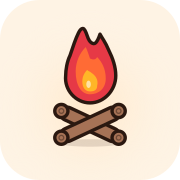
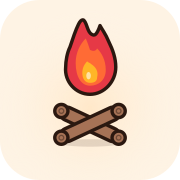
Fix dark merger: pull flame to y=1 for 3-unit gap above logs
At y=4 the gap was only 0.2 SVG units; at 120px render the 1.2px flame
stroke + 1.3px log stroke overlapped visually creating a black blob at
the flame base. y=1 gives a 3.2-unit gap (~7px clearance at 120px) so
the dark strokes never merge regardless of render size.

Propagated across icon-source.svg + 7 inline SVGs (index nav, design-
system nav + 3 showcase, privacy nav, terms nav). PNGs regenerated.

Changed region(s): [[0.3333, 0.0833, 0.6667, 0.5833]]

diff --git a/site/design-system.html b/site/design-system.html
@@ -182,7 +182,7 @@
           <g transform="rotate(25)"><rect x="-12" y="-2.5" width="24" height="5" rx="2.5" fill="#a67256" stroke="#2b1810" stroke-width="1.3" stroke-linejoin="round"/><circle cx="-12" cy="0" r="2.5" fill="#a67256" stroke="#2b1810" stroke-width="1.3"/><circle cx="12" cy="0" r="2.5" fill="#a67256" stroke="#2b1810" stroke-width="1.3"/></g>
           <g transform="rotate(-25)"><rect x="-12" y="-2.5" width="24" height="5" rx="2.5" fill="#a67256" stroke="#2b1810" stroke-width="1.3" stroke-linejoin="round"/><circle cx="-12" cy="0" r="2.5" fill="#a67256" stroke="#2b1810" stroke-width="1.3"/><circle cx="12" cy="0" r="2.5" fill="#a67256" stroke="#2b1810" stroke-width="1.3"/></g>
         </g>
-        <svg x="12" y="4" width="32" height="32" viewBox="0 0 32 32">
+        <svg x="12" y="1" width="32" height="32" viewBox="0 0 32 32">
           <path d="M12 4 C 11 6, 10 9, 9 12 C 8 14, 7.5 17, 7.5 19 C 7 24, 11 28.5, 16 28.5 C 21 28.5, 25 24, 25 19 C 25 16, 24 13, 22.5 10 C 21.5 7.5, 20 5.5, 19.5 4.5 C 19 6, 18.5 7, 18 7.5 C 17.5 8, 17 7.8, 16.5 7.5 C 16 7.2, 15.5 6.5, 15 5 C 14.5 3.5, 14 2.5, 13.5 2.5 C 13 2.5, 12.5 3, 12 4 Z" fill="#e63946" stroke="#2b1810" stroke-width="1.2" stroke-linejoin="round"/>
           <path d="M14.5 9 C 12.5 11, 11 14, 11 17.5 C 11 22.5, 13 25.5, 16 25.5 C 19 25.5, 21.5 23.5, 21.5 20 C 21.5 16.5, 20 14, 18.5 12.5 C 18 13.5, 17 13.5, 16 13 C 15.5 11.5, 15 10, 14.5 9 Z" fill="#ff6b35"/>
           <path d="M15 17 C 13.5 18.5, 13 20.5, 13.5 22.5 C 14 24, 15 24.5, 16 24.5 C 17.5 24.5, 18.5 24, 18.5 22.5 C 19 20.5, 18 19, 16.5 18 C 16 17.5, 15.5 17.5, 15 17 Z" fill="#ffb627"/>
@@ -208,7 +208,7 @@
           <g transform="rotate(25)"><rect x="-12" y="-2.5" width="24" height="5" rx="2.5" fill="#a67256" stroke="#2b1810" stroke-width="1.3" stroke-linejoin="round"/><circle cx="-12" cy="0" r="2.5" fill="#a67256" stroke="#2b1810" stroke-width="1.3"/><circle cx="12" cy="0" r="2.5" fill="#a67256" stroke="#2b1810" stroke-width="1.3"/></g>
           <g transform="rotate(-25)"><rect x="-12" y="-2.5" width="24" height="5" rx="2.5" fill="#a67256" stroke="#2b1810" stroke-width="1.3" stroke-linejoin="round"/><circle cx="-12" cy="0" r="2.5" fill="#a67256" stroke="#2b1810" stroke-width="1.3"/><circle cx="12" cy="0" r="2.5" fill="#a67256" stroke="#2b1810" stroke-width="1.3"/></g>
         </g>
-        <svg x="12" y="4" width="32" height="32" viewBox="0 0 32 32">
+        <svg x="12" y="1" width="32" height="32" viewBox="0 0 32 32">
           <path d="M12 4 C 11 6, 10 9, 9 12 C 8 14, 7.5 17, 7.5 19 C 7 24, 11 28.5, 16 28.5 C 21 28.5, 25 24, 25 19 C 25 16, 24 13, 22.5 10 C 21.5 7.5, 20 5.5, 19.5 4.5 C 19 6, 18.5 7, 18 7.5 C 17.5 8, 17 7.8, 16.5 7.5 C 16 7.2, 15.5 6.5, 15 5 C 14.5 3.5, 14 2.5, 13.5 2.5 C 13 2.5, 12.5 3, 12 4 Z" fill="#e63946" stroke="#2b1810" stroke-width="1.2" stroke-linejoin="round"/>
           <path d="M14.5 9 C 12.5 11, 11 14, 11 17.5 C 11 22.5, 13 25.5, 16 25.5 C 19 25.5, 21.5 23.5, 21.5 20 C 21.5 16.5, 20 14, 18.5 12.5 C 18 13.5, 17 13.5, 16 13 C 15.5 11.5, 15 10, 14.5 9 Z" fill="#ff6b35"/>
           <path d="M15 17 C 13.5 18.5, 13 20.5, 13.5 22.5 C 14 24, 15 24.5, 16 24.5 C 17.5 24.5, 18.5 24, 18.5 22.5 C 19 20.5, 18 19, 16.5 18 C 16 17.5, 15.5 17.5, 15 17 Z" fill="#ffb627"/>
@@ -220,7 +220,7 @@
           <g transform="rotate(25)"><rect x="-12" y="-2.5" width="24" height="5" rx="2.5" fill="#a67256" stroke="#2b1810" stroke-width="1.3" stroke-linejoin="round"/><circle cx="-12" cy="0" r="2.5" fill="#a67256" stroke="#2b1810" stroke-width="1.3"/><circle cx="12" cy="0" r="2.5" fill="#a67256" stroke="#2b1810" stroke-width="1.3"/></g>
           <g transform="rotate(-25)"><rect x="-12" y="-2.5" width="24" height="5" rx="2.5" fill="#a67256" stroke="#2b1810" stroke-width="1.3" stroke-linejoin="round"/><circle cx="-12" cy="0" r="2.5" fill="#a67256" stroke="#2b1810" stroke-width="1.3"/><circle cx="12" cy="0" r="2.5" fill="#a67256" stroke="#2b1810" stroke-width="1.3"/></g>
         </g>
-        <svg x="12" y="4" width="32" height="32" viewBox="0 0 32 32">
+        <svg x="12" y="1" width="32" height="32" viewBox="0 0 32 32">
           <path d="M12 4 C 11 6, 10 9, 9 12 C 8 14, 7.5 17, 7.5 19 C 7 24, 11 28.5, 16 28.5 C 21 28.5, 25 24, 25 19 C 25 16, 24 13, 22.5 10 C 21.5 7.5, 20 5.5, 19.5 4.5 C 19 6, 18.5 7, 18 7.5 C 17.5 8, 17 7.8, 16.5 7.5 C 16 7.2, 15.5 6.5, 15 5 C 14.5 3.5, 14 2.5, 13.5 2.5 C 13 2.5, 12.5 3, 12 4 Z" fill="#e63946" stroke="#2b1810" stroke-width="1.2" stroke-linejoin="round"/>
           <path d="M14.5 9 C 12.5 11, 11 14, 11 17.5 C 11 22.5, 13 25.5, 16 25.5 C 19 25.5, 21.5 23.5, 21.5 20 C 21.5 16.5, 20 14, 18.5 12.5 C 18 13.5, 17 13.5, 16 13 C 15.5 11.5, 15 10, 14.5 9 Z" fill="#ff6b35"/>
           <path d="M15 17 C 13.5 18.5, 13 20.5, 13.5 22.5 C 14 24, 15 24.5, 16 24.5 C 17.5 24.5, 18.5 24, 18.5 22.5 C 19 20.5, 18 19, 16.5 18 C 16 17.5, 15.5 17.5, 15 17 Z" fill="#ffb627"/>
@@ -231,7 +231,7 @@
           <g transform="rotate(25)"><rect x="-12" y="-2.5" width="24" height="5" rx="2.5" fill="#a67256" stroke="#2b1810" stroke-width="1.3" stroke-linejoin="round"/><circle cx="-12" cy="0" r="2.5" fill="#a67256" stroke="#2b1810" stroke-width="1.3"/><circle cx="12" cy="0" r="2.5" fill="#a67256" stroke="#2b1810" stroke-width="1.3"/></g>
           <g transform="rotate(-25)"><rect x="-12" y="-2.5" width="24" height="5" rx="2.5" fill="#a67256" stroke="#2b1810" stroke-width="1.3" stroke-linejoin="round"/><circle cx="-12" cy="0" r="2.5" fill="#a67256" stroke="#2b1810" stroke-width="1.3"/><circle cx="12" cy="0" r="2.5" fill="#a67256" stroke="#2b1810" stroke-width="1.3"/></g>
         </g>
-        <svg x="12" y="4" width="32" height="32" viewBox="0 0 32 32">
+        <svg x="12" y="1" width="32" height="32" viewBox="0 0 32 32">
           <path d="M12 4 C 11 6, 10 9, 9 12 C 8 14, 7.5 17, 7.5 19 C 7 24, 11 28.5, 16 28.5 C 21 28.5, 25 24, 25 19 C 25 16, 24 13, 22.5 10 C 21.5 7.5, 20 5.5, 19.5 4.5 C 19 6, 18.5 7, 18 7.5 C 17.5 8, 17 7.8, 16.5 7.5 C 16 7.2, 15.5 6.5, 15 5 C 14.5 3.5, 14 2.5, 13.5 2.5 C 13 2.5, 12.5 3, 12 4 Z" fill="#e63946" stroke="#2b1810" stroke-width="1.2" stroke-linejoin="round"/>
           <path d="M14.5 9 C 12.5 11, 11 14, 11 17.5 C 11 22.5, 13 25.5, 16 25.5 C 19 25.5, 21.5 23.5, 21.5 20 C 21.5 16.5, 20 14, 18.5 12.5 C 18 13.5, 17 13.5, 16 13 C 15.5 11.5, 15 10, 14.5 9 Z" fill="#ff6b35"/>
         </svg>

diff --git a/site/privacy.html b/site/privacy.html
@@ -54,7 +54,7 @@
           <g transform="rotate(25)"><rect x="-12" y="-2.5" width="24" height="5" rx="2.5" fill="#a67256" stroke="#2b1810" stroke-width="1.3" stroke-linejoin="round"/><circle cx="-12" cy="0" r="2.5" fill="#a67256" stroke="#2b1810" stroke-width="1.3"/><circle cx="12" cy="0" r="2.5" fill="#a67256" stroke="#2b1810" stroke-width="1.3"/></g>
           <g transform="rotate(-25)"><rect x="-12" y="-2.5" width="24" height="5" rx="2.5" fill="#a67256" stroke="#2b1810" stroke-width="1.3" stroke-linejoin="round"/><circle cx="-12" cy="0" r="2.5" fill="#a67256" stroke="#2b1810" stroke-width="1.3"/><circle cx="12" cy="0" r="2.5" fill="#a67256" stroke="#2b1810" stroke-width="1.3"/></g>
         </g>
-        <svg x="12" y="4" width="32" height="32" viewBox="0 0 32 32">
+        <svg x="12" y="1" width="32" height="32" viewBox="0 0 32 32">
           <path d="M12 4 C 11 6, 10 9, 9 12 C 8 14, 7.5 17, 7.5 19 C 7 24, 11 28.5, 16 28.5 C 21 28.5, 25 24, 25 19 C 25 16, 24 13, 22.5 10 C 21.5 7.5, 20 5.5, 19.5 4.5 C 19 6, 18.5 7, 18 7.5 C 17.5 8, 17 7.8, 16.5 7.5 C 16 7.2, 15.5 6.5, 15 5 C 14.5 3.5, 14 2.5, 13.5 2.5 C 13 2.5, 12.5 3, 12 4 Z" fill="#e63946" stroke="#2b1810" stroke-width="1.2" stroke-linejoin="round"/>
           <path d="M14.5 9 C 12.5 11, 11 14, 11 17.5 C 11 22.5, 13 25.5, 16 25.5 C 19 25.5, 21.5 23.5, 21.5 20 C 21.5 16.5, 20 14, 18.5 12.5 C 18 13.5, 17 13.5, 16 13 C 15.5 11.5, 15 10, 14.5 9 Z" fill="#ff6b35"/>
           <path d="M15 17 C 13.5 18.5, 13 20.5, 13.5 22.5 C 14 24, 15 24.5, 16 24.5 C 17.5 24.5, 18.5 24, 18.5 22.5 C 19 20.5, 18 19, 16.5 18 C 16 17.5, 15.5 17.5, 15 17 Z" fill="#ffb627"/>

diff --git a/site/terms.html b/site/terms.html
@@ -54,7 +54,7 @@
           <g transform="rotate(25)"><rect x="-12" y="-2.5" width="24" height="5" rx="2.5" fill="#a67256" stroke="#2b1810" stroke-width="1.3" stroke-linejoin="round"/><circle cx="-12" cy="0" r="2.5" fill="#a67256" stroke="#2b1810" stroke-width="1.3"/><circle cx="12" cy="0" r="2.5" fill="#a67256" stroke="#2b1810" stroke-width="1.3"/></g>
           <g transform="rotate(-25)"><rect x="-12" y="-2.5" width="24" height="5" rx="2.5" fill="#a67256" stroke="#2b1810" stroke-width="1.3" stroke-linejoin="round"/><circle cx="-12" cy="0" r="2.5" fill="#a67256" stroke="#2b1810" stroke-width="1.3"/><circle cx="12" cy="0" r="2.5" fill="#a67256" stroke="#2b1810" stroke-width="1.3"/></g>
         </g>
-        <svg x="12" y="4" width="32" height="32" viewBox="0 0 32 32">
+        <svg x="12" y="1" width="32" height="32" viewBox="0 0 32 32">
           <path d="M12 4 C 11 6, 10 9, 9 12 C 8 14, 7.5 17, 7.5 19 C 7 24, 11 28.5, 16 28.5 C 21 28.5, 25 24, 25 19 C 25 16, 24 13, 22.5 10 C 21.5 7.5, 20 5.5, 19.5 4.5 C 19 6, 18.5 7, 18 7.5 C 17.5 8, 17 7.8, 16.5 7.5 C 16 7.2, 15.5 6.5, 15 5 C 14.5 3.5, 14 2.5, 13.5 2.5 C 13 2.5, 12.5 3, 12 4 Z" fill="#e63946" stroke="#2b1810" stroke-width="1.2" stroke-linejoin="round"/>
           <path d="M14.5 9 C 12.5 11, 11 14, 11 17.5 C 11 22.5, 13 25.5, 16 25.5 C 19 25.5, 21.5 23.5, 21.5 20 C 21.5 16.5, 20 14, 18.5 12.5 C 18 13.5, 17 13.5, 16 13 C 15.5 11.5, 15 10, 14.5 9 Z" fill="#ff6b35"/>
           <path d="M15 17 C 13.5 18.5, 13 20.5, 13.5 22.5 C 14 24, 15 24.5, 16 24.5 C 17.5 24.5, 18.5 24, 18.5 22.5 C 19 20.5, 18 19, 16.5 18 C 16 17.5, 15.5 17.5, 15 17 Z" fill="#ffb627"/>

diff --git a/site/index.html b/site/index.html
@@ -559,7 +559,7 @@
             <circle cx="12" cy="0" r="2.5" fill="#a67256" stroke="#2b1810" stroke-width="1.3"/>
           </g>
         </g>
-        <svg x="12" y="4" width="32" height="32" viewBox="0 0 32 32">
+        <svg x="12" y="1" width="32" height="32" viewBox="0 0 32 32">
           <path d="M12 4 C 11 6, 10 9, 9 12 C 8 14, 7.5 17, 7.5 19 C 7 24, 11 28.5, 16 28.5 C 21 28.5, 25 24, 25 19 C 25 16, 24 13, 22.5 10 C 21.5 7.5, 20 5.5, 19.5 4.5 C 19 6, 18.5 7, 18 7.5 C 17.5 8, 17 7.8, 16.5 7.5 C 16 7.2, 15.5 6.5, 15 5 C 14.5 3.5, 14 2.5, 13.5 2.5 C 13 2.5, 12.5 3, 12 4 Z" fill="#e63946" stroke="#2b1810" stroke-width="1.2" stroke-linejoin="round"/>
           <path d="M14.5 9 C 12.5 11, 11 14, 11 17.5 C 11 22.5, 13 25.5, 16 25.5 C 19 25.5, 21.5 23.5, 21.5 20 C 21.5 16.5, 20 14, 18.5 12.5 C 18 13.5, 17 13.5, 16 13 C 15.5 11.5, 15 10, 14.5 9 Z" fill="#ff6b35"/>
           <path d="M15 17 C 13.5 18.5, 13 20.5, 13.5 22.5 C 14 24, 15 24.5, 16 24.5 C 17.5 24.5, 18.5 24, 18.5 22.5 C 19 20.5, 18 19, 16.5 18 C 16 17.5, 15.5 17.5, 15 17 Z" fill="#ffb627"/>
